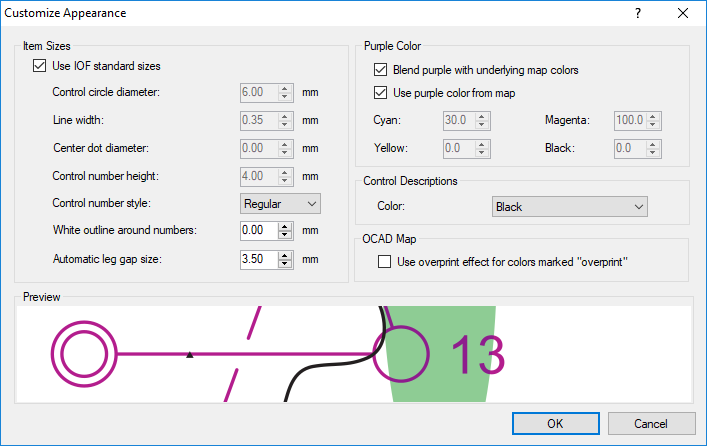
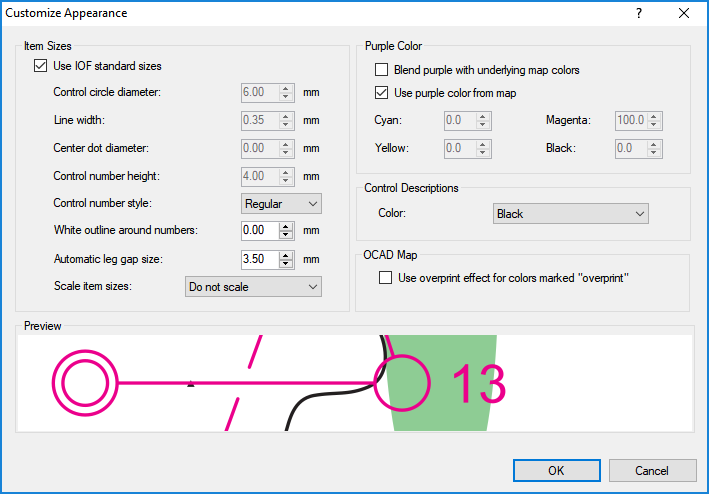
Update help for new 3.1 features.

diff --git a/doc/userdocs/Help/EventCustomizeCourseAppearance.htm b/doc/userdocs/Help/EventCustomizeCourseAppearance.htm
@@ -23,10 +23,12 @@ exported to OCAD/OOM.</p>
 <p><strong>Use IOF standard sizes</strong>: If this is checked, Purple Pen uses 
 the IOF standard sizes for control circles, legs, control numbers, and other 
 items on the course. To change those sizes, uncheck this option.</p>
-<p><strong>Control circle diameter</strong>: Set the outside diameter of control 
+<p><strong>Control circle diameter</strong>: Sets the <u>outside diameter</u> of control 
 circles to the given size in mm. This also affects the size of the start 
 triangle, finish circle, crossing points, refreshment marking, and first aid 
-markings, which will be scaled in the same ratio. The IOF standard is 6.0 mm.</p>
+markings, which will be scaled in the same ratio. The IOF standard is 6.0 mm in ISOM2000, and 5.35mm in ISOM2017. 
+(Note that ISOM2017 measures the circle diameter from the center of the line, while Purple Pen uses the outside diameter,
+so 5.35mm outside diameter is equivalent to 5.0mm diameter from the line centers.)</p>
 <p><strong>Line width</strong>: Sets the width of lines for legs, control 
 circles, start triangle, and the finish circle. The IOF standard is 0.35 mm.</p>
     <p><strong>Center dot diameter</strong>: If set to something higher than 0.00m (the IOF standard), places a dot of the indicated diameter in the center of the control circle. Although not typically used, it is useful for certain types of maps.</p>
@@ -36,6 +38,17 @@ control numbers. The IOF standard is 4.0 mm.</p>
     <p><strong>White outline around numbers</strong>: If greater than zero, a white outline of the given width is placed around numbers to make them more visible against colored or complex backgrounds.
     A value between 0.1mm and 0.4mm usually works best.</p>
     <p><strong>Automatic leg gap size</strong>: If greater than zero, controls how much of a gap to automatically place when one leg crosses another leg. Set this to zero to disable placing automatic gaps in legs.</p>
+    <p><strong>Scale item sizes</strong>: Determines how the item sizes (circle diameter, line width, etc.) are modified based on the selected print scale of the course. There are three possible options:</p>
+    <ul>
+        <li><strong>Do not scale</strong>. The item sizes will always print at the given size on the paper, no matter the print scale. This option was how Purple Pen always worked prior to version 3.1.</li>
+        <li><strong>Relative to map scale</strong>. The item sizes will scale along with the map if the print scale is different than the map scale. For example, if the map scale is 1:10,000,
+                    and the print scale is 1:7,500, then circles, line width, etc. will be 1.333x of the given size. If the print scale is the same as the scale of the underlying map,
+                    then items will print at the given size.
+        </li>
+        <li><strong>Relative to 1:15,000</strong>. The item sizes will scale based on the printing scale relative to a 1:15,000 base resolution, regardless of the scale of the underlying map.
+            For example, if the map is 1:10,000, and also printed at 1:10,000, then circles, line width, etc. will be at 1.5x of the given size. This is consistent with the ISOM2017 mapping specification.
+        </li>
+    </ul>
 <p><strong>Blend purple with underlying map colors</strong>: If this is checked, the course lines and control numbers that are printed in purple will be blended with the underlying map. This allows features (especially black features) in the map to show through the purple. In most cases, this produces a more readable map, and this setting is on by default. To prevent blending of control numbers only, set the &quot;white outline around numbers&quot; setting to a value greater than zero.</p>
     <p><strong>Use purple color from map</strong>: If this is checked, the color 
 used for the course will be the same shade of Purple as used in the underlying 

diff --git a/doc/userdocs/Help/EventIofStandards.htm b/doc/userdocs/Help/EventIofStandards.htm
@@ -1,0 +1,31 @@
+<!DOCTYPE HTML PUBLIC "-//IETF//DTD HTML//EN">
+<HTML>
+<!-- #BeginTemplate "master.dwt" -->
+<HEAD>
+<meta name="GENERATOR" content="Microsoft&reg; HTML Help Workshop 4.1">
+<link rel=stylesheet href="StyleSheet.css" type="text/css">
+<!-- #BeginEditable "doctitle" -->
+<Title>Event/IOF Standards</Title>
+<!-- #EndEditable -->
+</HEAD>
+<BODY>
+<!-- #BeginEditable "content" -->
+<h1>Event/IOF Standards</h1>
+<p>The IOF Standards menu controls the IOF standards used for the event. There are two different choices that can be made for the IOF standard&mdash;the control description standard
+	and the mapping standard.</p>
+<p>There are two choices for the control description standard:</p>
+	<ul>
+		<li><strong>2004 Description Standard</strong>. The IOF control description standard published in 2004: <a href="http://orienteering.org/wp-content/uploads/2010/12/IOF-Control-Descriptions-2004.pdf">download here</a>.</li>
+        <li><strong>2018 Description Standard</strong>. The IOF control description standard published in late 2017: <a href="">download here</a>. 
+			This standard has new symbols for trench and out of bounds area, and updated symbols for boulder, knoll, and boulder cluster. The bend symbol moves to a different column.</li>
+	</ul>
+<p>There are two choices for the maps standard. The choice of standard slightly affects the standard sizes for circles and other items overprinted in purple on the map, and the appearance
+	of out of bounds areas.</p>
+	<ul>
+		<li><strong>ISOM 2000</strong>. The International Standard for Orienteering Maps published in 2000: <a href="http://orienteering.org/wp-content/uploads/2010/12/International-Specification-for-Orienteering-Maps-2000.pdf">download here</a>.</li>
+        <li><strong>ISOM 2017</strong>. The International Standard for Orienteering Maps published in 2017: <a href="http://orienteering.org/resources/mapping/international-specification-for-orienteering-maps-isom-2017/">download here</a>.</li>
+	</ul>
+<!-- #EndEditable -->
+</BODY>
+<!-- #EndTemplate -->
+</HTML>

diff --git a/doc/userdocs/Help/EditAddMapIssuePoint.htm b/doc/userdocs/Help/EditAddMapIssuePoint.htm
@@ -1,0 +1,26 @@
+<!DOCTYPE HTML PUBLIC "-//IETF//DTD HTML//EN">
+<HTML>
+<!-- #BeginTemplate "master.dwt" -->
+<HEAD>
+<meta name="GENERATOR" content="Microsoft&reg; HTML Help Workshop 4.1">
+<link rel=stylesheet href="StyleSheet.css" type="text/css">
+<!-- #BeginEditable "doctitle" -->
+<Title>Add/Map Issue Point</Title>
+<!-- #EndEditable -->
+</HEAD>
+<BODY>
+<!-- #BeginEditable "content" -->
+<h1>Add/Map Issue Point</h1>
+<p>Adds a map issue point to the beginning of a course. The map issue point
+indicates the spot before the start triangle where maps are given to competitors.
+The map issue point is connected to the start triangle with a dashed line. The
+distance between the map issue point and the start is included in the calculated
+length of the course. </p>
+<p>To have the dashed line fro the map issue point to the start follow a 
+particular path, select that path and then use the <a  href="EditAddBend.htm">Item/Add Bend</a> command
+to add bending points to the line.</p>
+
+<!-- #EndEditable -->
+</BODY>
+<!-- #EndTemplate -->
+</HTML>

diff --git a/doc/userdocs/Help/EditAddFirstAidLocation.htm b/doc/userdocs/Help/EditAddFirstAidLocation.htm
@@ -5,12 +5,12 @@
 <meta name="GENERATOR" content="Microsoft&reg; HTML Help Workshop 4.1">
 <link rel=stylesheet href="StyleSheet.css" type="text/css">
 <!-- #BeginEditable "doctitle" -->
-<Title>Edit/Add Special Item/First Aid Location</Title>
+<Title>Add/First Aid Location</Title>
 <!-- #EndEditable -->
 </HEAD>
 <BODY>
 <!-- #BeginEditable "content" -->
-<h1>Item/Add Special Item/First Aid Location</h1>
+<h1>Add/First Aid Location</h1>
 <p>Adds a special item indicating the location of first aid that is <i>not located at a control point</i>. Click the mouse at the location on the map of the first aid.</p>
 <p>If first aid is located at a control point, this special item should not be used; the first aid symbol should be placed in the last column of the control description instead.</p>
 <p>By default, the first aid location special item appears on all courses. If you wish it to appear only on some courses, use the 

diff --git a/doc/userdocs/Help/EditAddWaterLocation.htm b/doc/userdocs/Help/EditAddWaterLocation.htm
@@ -5,12 +5,12 @@
 <meta name="GENERATOR" content="Microsoft&reg; HTML Help Workshop 4.1">
 <link rel=stylesheet href="StyleSheet.css" type="text/css">
 <!-- #BeginEditable "doctitle" -->
-<Title>Edit/Add Special Item/Water Location</Title>
+<Title>Add/Water Location</Title>
 <!-- #EndEditable -->
 </HEAD>
 <BODY>
 <!-- #BeginEditable "content" -->
-<h1>Item/Add Special Item/Water Location</h1>
+<h1>Add/Water Location</h1>
 <p>Adds a special item indicating the location of water or refreshments that are <i>not located at a control point</i>. Click the mouse at the location on the map of the refreshments.</p>
 <p>If water is located at a control point, this special item should not be used; the water control symbol should be placed in the last column of the control description instead.</p>
 <p>By default, the water location special item appears on all courses. If you wish it to appear only on some courses, use the 

diff --git a/doc/userdocs/Help/EditAddFlaggedRouteToMapExchange.htm b/doc/userdocs/Help/EditAddFlaggedRouteToMapExchange.htm
@@ -5,12 +5,12 @@
 <meta name="GENERATOR" content="Microsoft&reg; HTML Help Workshop 4.1">
 <link rel=stylesheet href="StyleSheet.css" type="text/css">
 <!-- #BeginEditable "doctitle" -->
-<Title>Item/Add Map Exchange/Flagged Route to Map Exchange</Title>
+<Title>Add/Map Exchange/Flagged Route to Map Exchange</Title>
 <!-- #EndEditable -->
 </HEAD>
 <BODY>
 <!-- #BeginEditable "content" -->
-<h1>Item/Add Map Exchange/Flagged Route to Map Exchange</h1>
+<h1>Add/Map Exchange/Flagged Route to Map Exchange</h1>
 <p>Adds a map exchange at a location that is not a control point. There is a flagged route from the last control on one part to the map exchange location, which serves as the start for the second part. The map exchange point appears as a triangle.</p>
 <p>When this command is selected, any existing map exchange locations are shown in light purple on the current course map.</p>
 <ul>

diff --git a/doc/userdocs/Help/EditAddForbiddenRouteMarking.htm b/doc/userdocs/Help/EditAddForbiddenRouteMarking.htm
@@ -5,12 +5,12 @@
 <meta name="GENERATOR" content="Microsoft&reg; HTML Help Workshop 4.1">
 <link rel=stylesheet href="StyleSheet.css" type="text/css">
 <!-- #BeginEditable "doctitle" -->
-<Title>Edit/Add Special Item/Forbidden Route Marking</Title>
+<Title>Add/Forbidden Route Marking</Title>
 <!-- #EndEditable -->
 </HEAD>
 <BODY>
 <!-- #BeginEditable "content" -->
-<h1>Item/Add Special Item/Forbidden Route Marking</h1>
+<h1>Add/Forbidden Route Marking</h1>
 <p>Adds a special item indicating a forbidden route. Click the mouse at the location on the map of the forbidden route marking.</p>
 <p>If a route on the map is forbidden to competitors, the forbidden route marking should be placed as many times as necessary all along the forbidden route. </p>
 <p>By default, the forbidden route special item appears on all courses. If you wish it to appear only on some courses, use the 

diff --git a/doc/userdocs/Help/EditAddLine.htm b/doc/userdocs/Help/EditAddLine.htm
@@ -5,7 +5,7 @@
 <meta name="GENERATOR" content="Microsoft&reg; HTML Help Workshop 4.1">
 <link rel=stylesheet href="StyleSheet.css" type="text/css">
 <!-- #BeginEditable "doctitle" -->
-<title>Item/Add Special Item/Line</title>
+<title>Add/Line</title>
 <style type="text/css">
 .style1 {
 border-collapse:collapse;
@@ -20,7 +20,7 @@ margin-left:60px;
 </HEAD>
 <BODY>
 <!-- #BeginEditable "content" -->
-<h1>Item/Add Special Item/Line</h1>
+<h1>Add/Line</h1>
 <p>Adds a special item that is a series of line segments. The color and appearance of the line is customizable. This can be used for various special purpose courses or training events, or for extra decoration on the map.</p>
 <p>First, you customize the appearance of the lines:</p>
 <p><img alt="Add Line Dialog" src="AddLineDialog.png"></p>

diff --git a/doc/userdocs/Help/EditAddOutOfBoundsArea.htm b/doc/userdocs/Help/EditAddOutOfBoundsArea.htm
@@ -5,12 +5,12 @@
 <meta name="GENERATOR" content="Microsoft&reg; HTML Help Workshop 4.1">
 <link rel=stylesheet href="StyleSheet.css" type="text/css">
 <!-- #BeginEditable "doctitle" -->
-<Title>Edit/Add Special Item/Out Of Bounds Area</Title>
+<Title>Add/Out Of Bounds Area</Title>
 <!-- #EndEditable -->
 </HEAD>
 <BODY>
 <!-- #BeginEditable "content" -->
-<h1>Item/Add Special Item/Out Of Bounds Area</h1>
+<h1>Add/Out Of Bounds Area  </h1>
 <p>Draws an area that is forbidden for competitors to enter. </p>
 <p>If the out-of-bounds area does not have a natural boundary on the map, it may be useful to mark the boundary with an <a href="EditAddUncrossableBoundary.htm">uncrossable boundary</a>. </p>
 <p>Draw the area on the map with the mouse as follows: </p>

diff --git a/doc/userdocs/Help/EditAddMapExchangeAtControlPoint.htm b/doc/userdocs/Help/EditAddMapExchangeAtControlPoint.htm
@@ -5,12 +5,12 @@
 <meta name="GENERATOR" content="Microsoft&reg; HTML Help Workshop 4.1">
 <link rel=stylesheet href="StyleSheet.css" type="text/css">
 <!-- #BeginEditable "doctitle" -->
-<Title>Item/Add Map Exchange/Map Exchange at Control Point</Title>
+<Title>Add/Map Exchange/Map Exchange at Control Point</Title>
 <!-- #EndEditable -->
 </HEAD>
 <BODY>
 <!-- #BeginEditable "content" -->
-<h1>Item/Add Map Exchange/Map Exchange at Control Point</h1>
+<h1>Add/Map Exchange/Map Exchange at Control Point</h1>
 <p>Adds a map exchange directly at a control point. At the control point, competitors 
     pick up a new map that shows the remaining part of the course. The control point 
     where the map exchange is located appears on both parts of the map.</p>

diff --git a/doc/userdocs/Help/EditAddText.htm b/doc/userdocs/Help/EditAddText.htm
@@ -5,7 +5,7 @@
 <meta name="GENERATOR" content="Microsoft&reg; HTML Help Workshop 4.1">
 <link rel=stylesheet href="StyleSheet.css" type="text/css">
 <!-- #BeginEditable "doctitle" -->
-<title>Item/Add Special Item/Text</title>
+<title>Add/Text</title>
 <style type="text/css">
 .style1 {
 border-collapse:collapse;
@@ -20,7 +20,7 @@ margin-left:60px;
 </HEAD>
 <BODY>
 <!-- #BeginEditable "content" -->
-<h1>Item/Add Special Item/Text</h1>
+<h1>Add/Text</h1>
 <p>Adds a special item that is text. The text can be any size. The color and font of the text is customizable.</p>
 <p>Part (or all) of the text can be &quot;special text&quot; pieces, which are replaced with 
 appropriate text differently for each course. This can be used, for example, to 

diff --git a/doc/userdocs/Help/CreatingNewEvent.htm b/doc/userdocs/Help/CreatingNewEvent.htm
@@ -65,6 +65,10 @@ Purple Pen events are stored in a file with the file extension &quot;.ppen&quot;
 of the file will be the event title you chose previously.</p>
 <p>You can chose to place the Purple Pen file in the same folder as the map 
 file. Alternatively, you can explicitly select any folder on your computer. </p>
+<h2>IOF Standards</h2>
+<p>Purple Pen can use different versions of the associated IOF standards for 
+control descriptions and maps. Choose which one you wish to use for this event.
+<a href="EventIofStandards.htm">More information</a>.</p>
 <h2>Control Numbering</h2>
 <p>Purple Pen automatically numbers all newly created controls. Choose the 
 starting control code you would like to use. It is very easy to change control 
